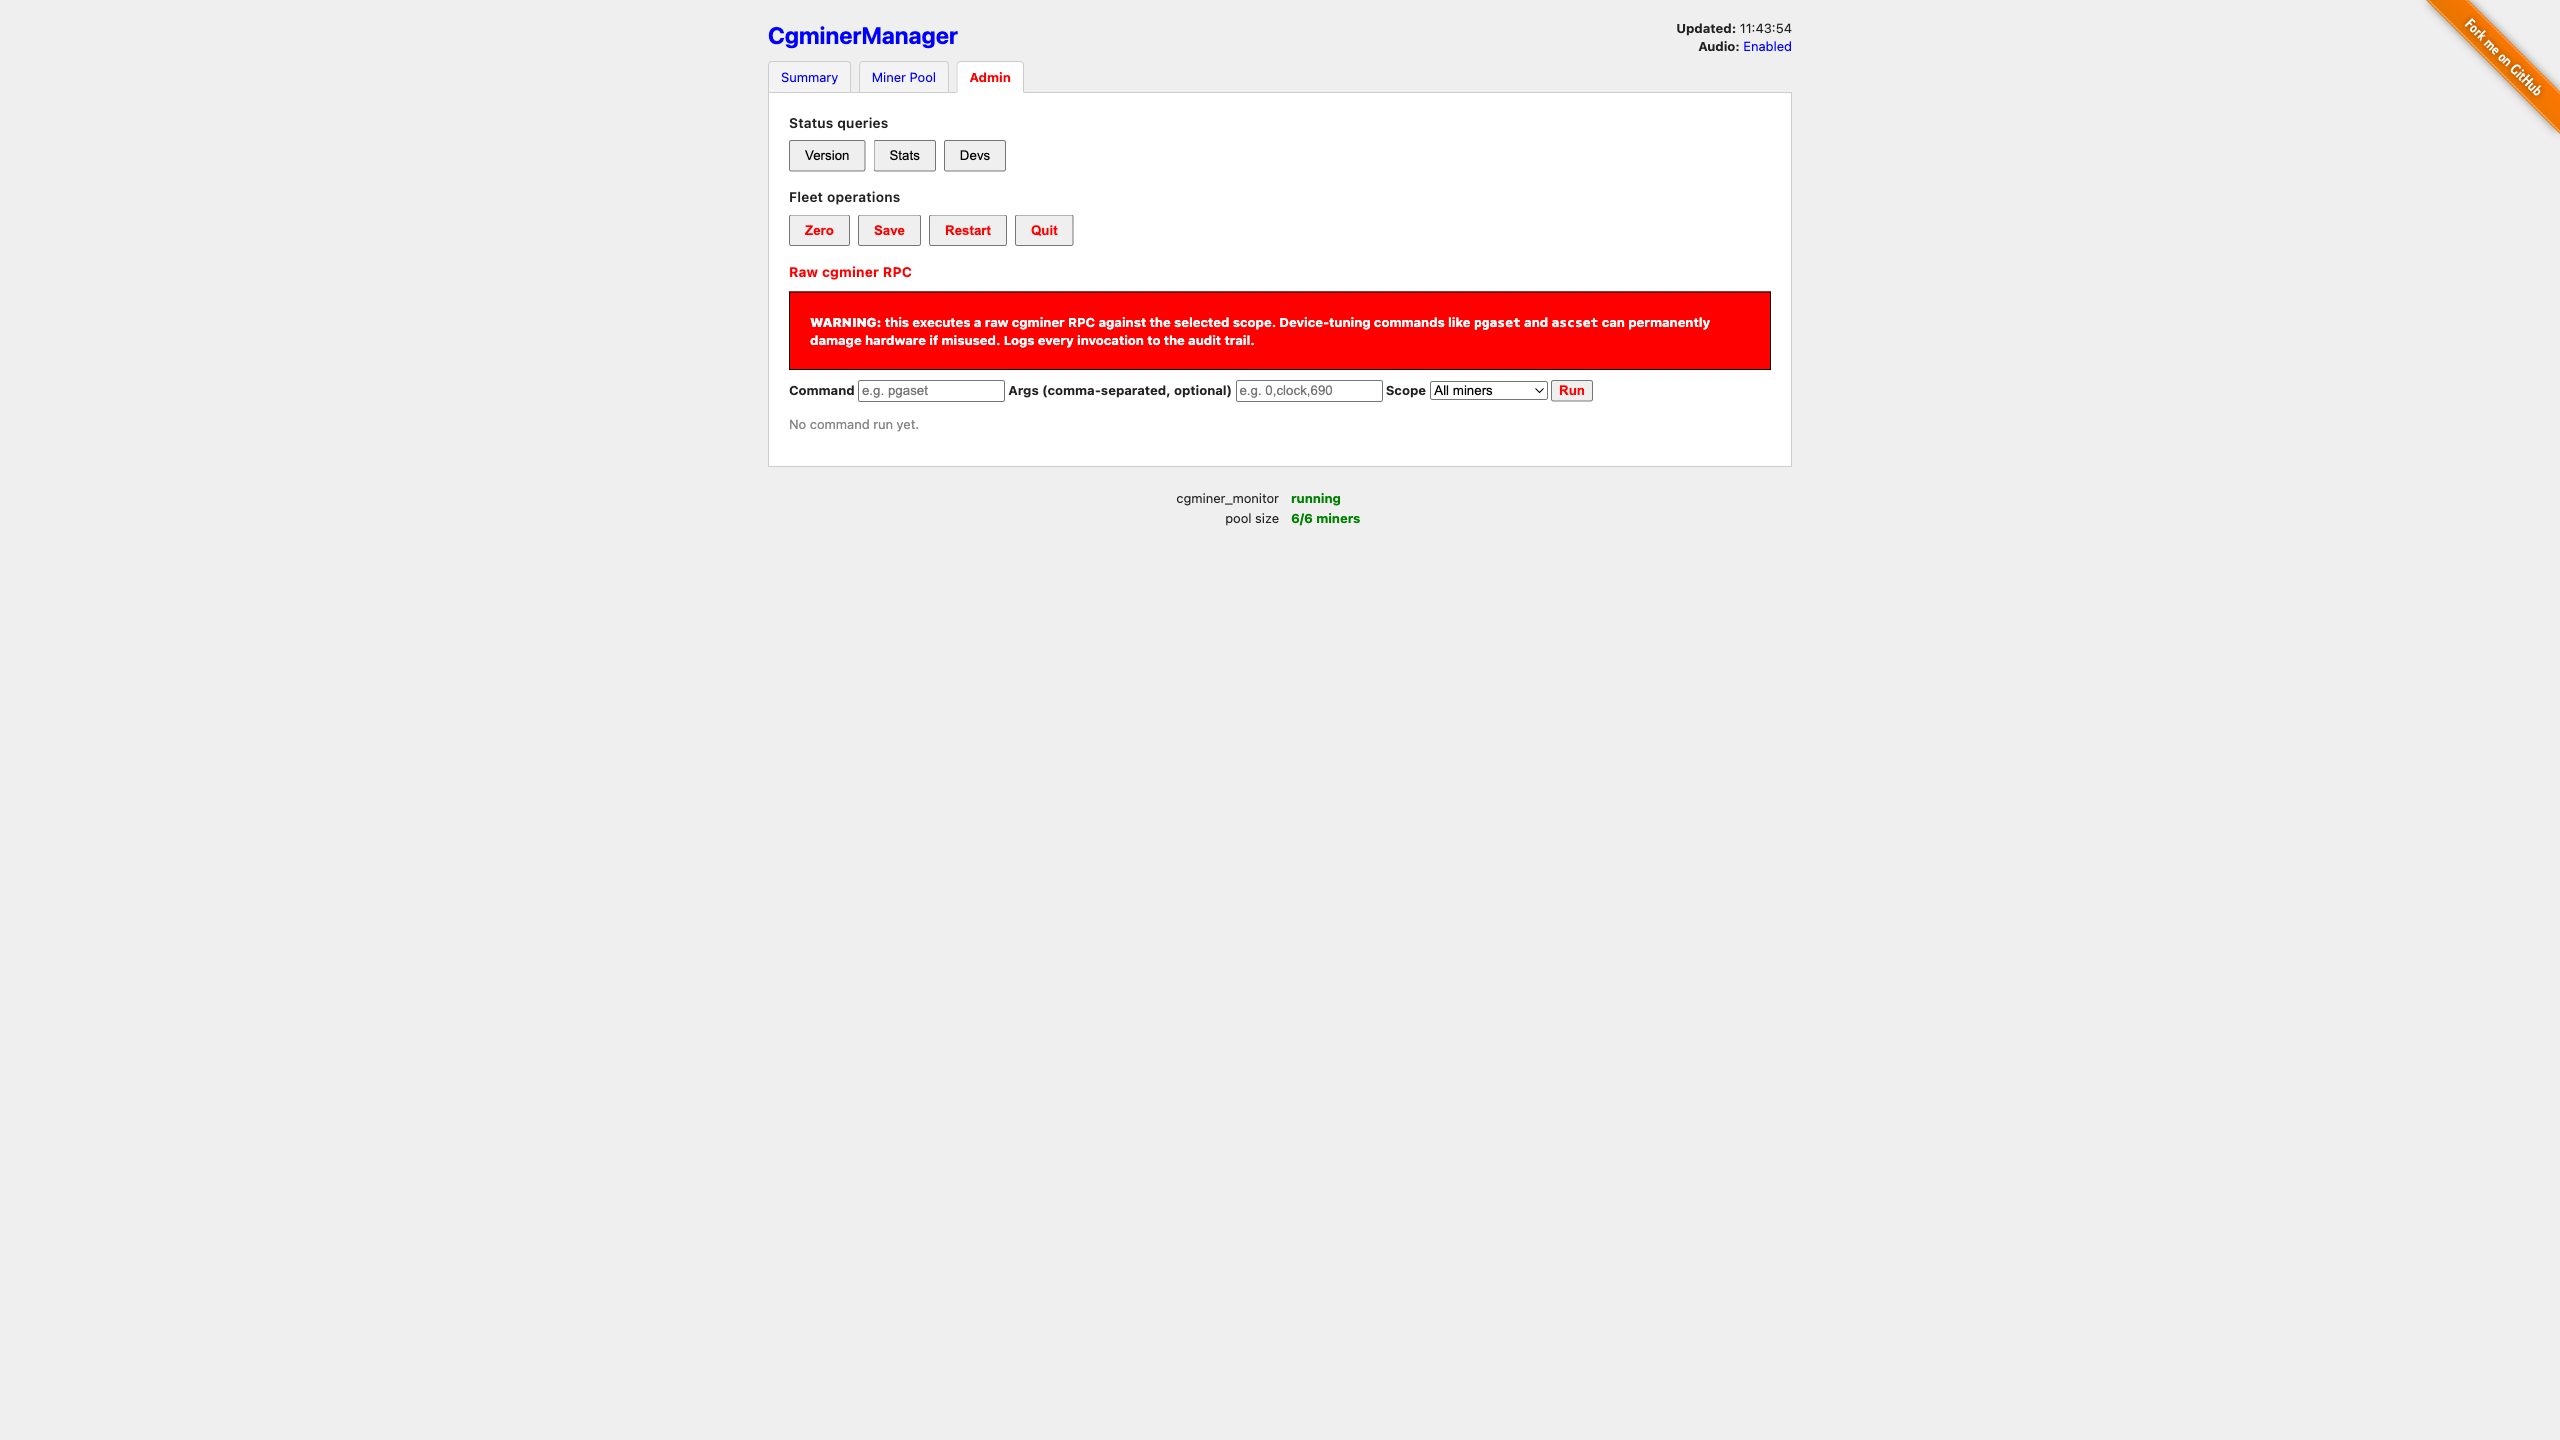
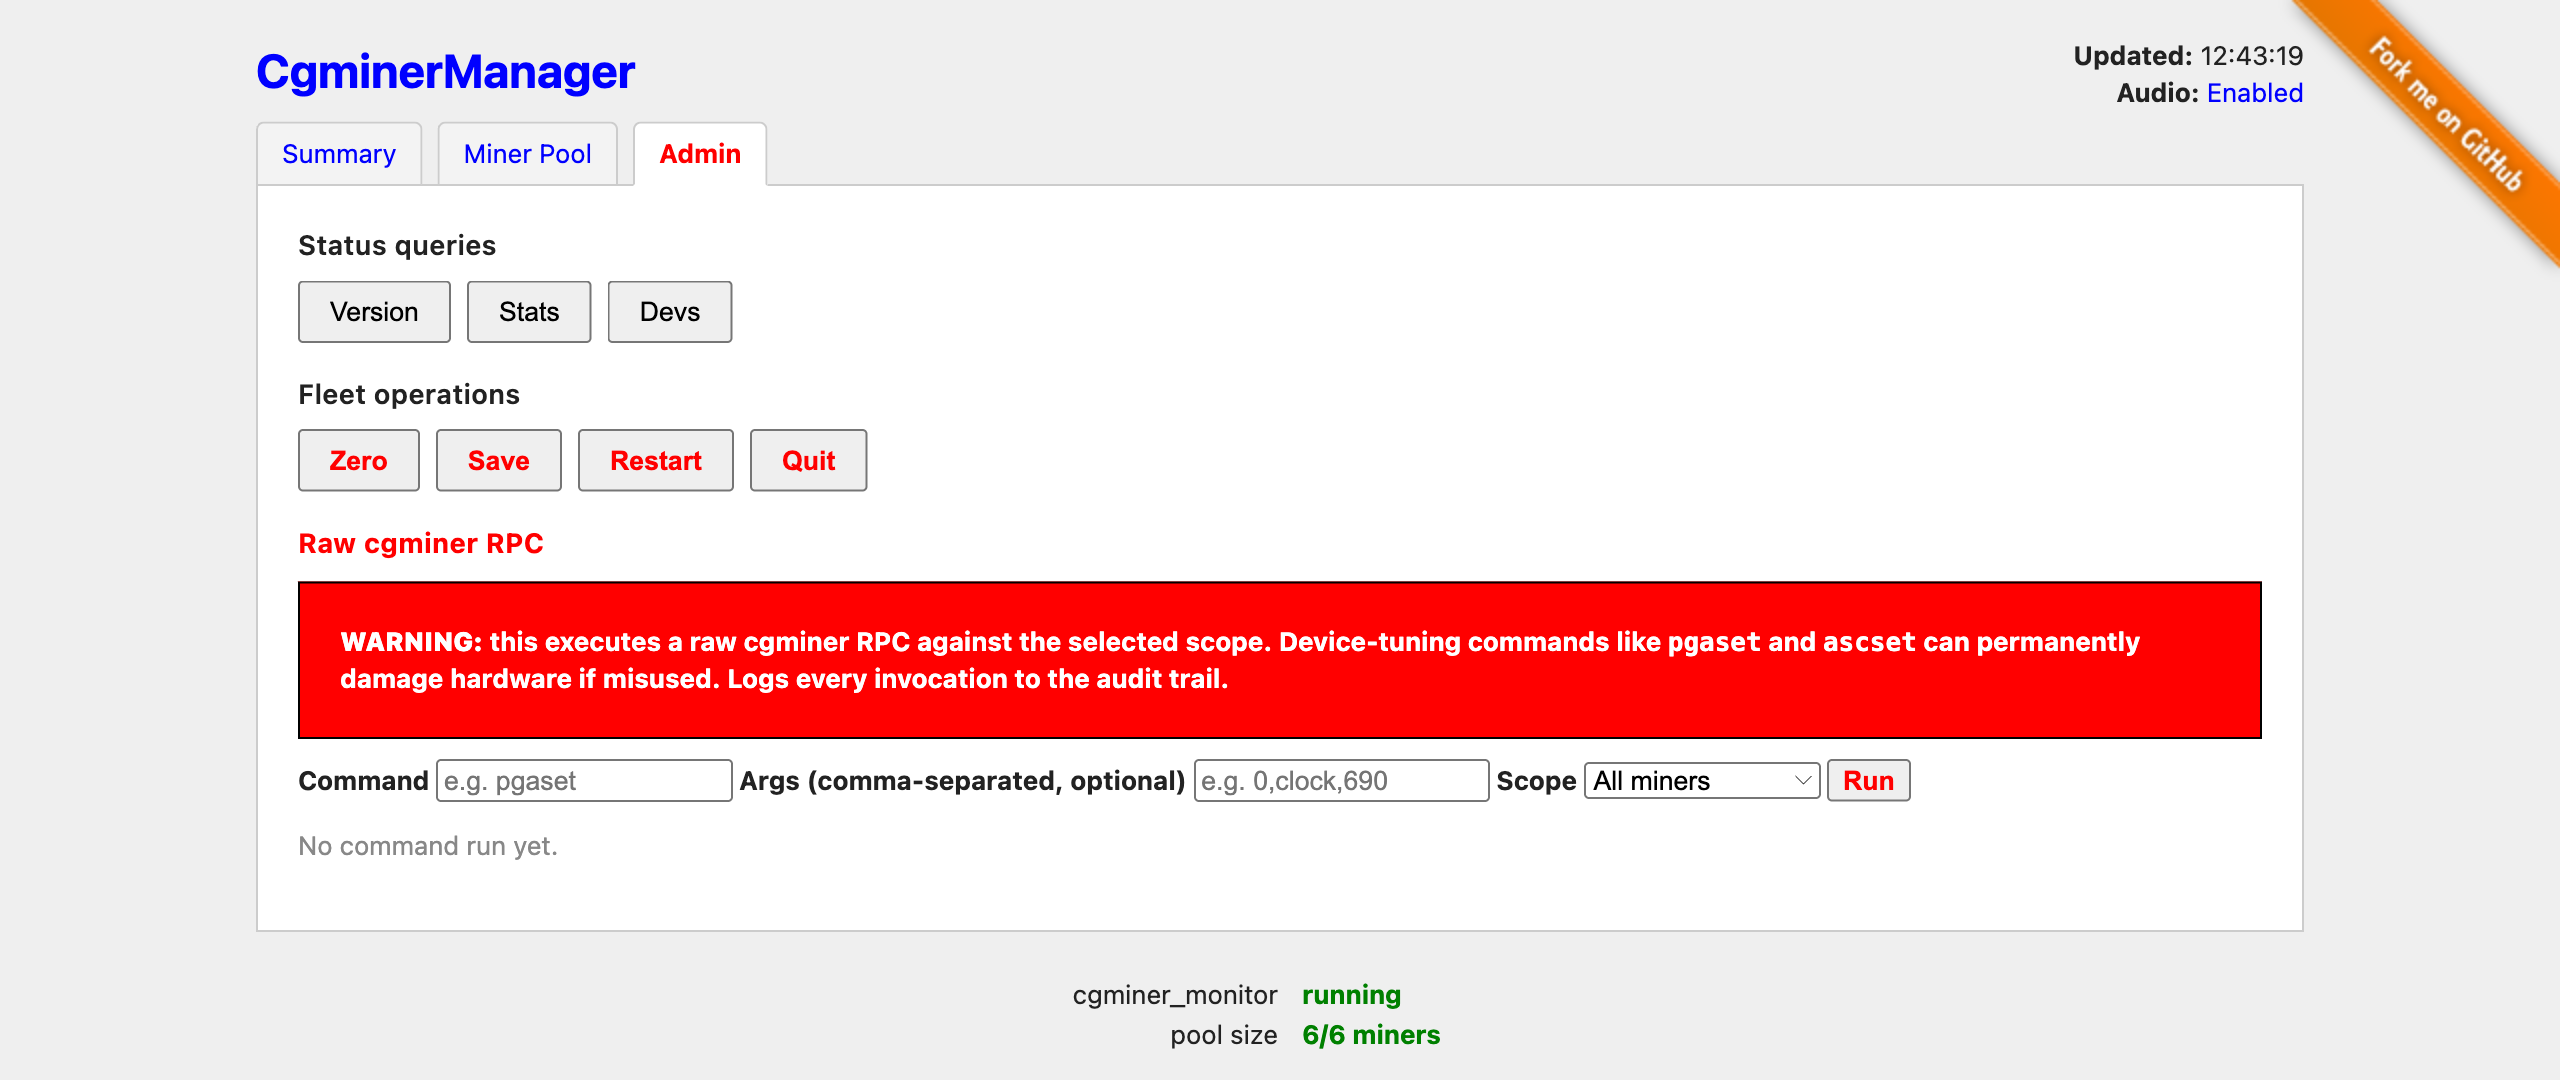
Re-capture screenshots at 2× zoom to keep margin proportions
Use document.documentElement.style.zoom = 2 so the page lays out at its
natural 1280-equivalent width (matching the original ~80%/10%/10%
content/gutter ratio) while the rasterized PNG comes out at 2560 px wide.
The previous max-width: none override gave a 2560-wide PNG but with the
content stretched edge-to-edge, no gutters at all.

diff --git a/dev/screenshots/README.md b/dev/screenshots/README.md
@@ -33,11 +33,20 @@ Capture the four PNGs (from any browser or Playwright MCP session):
 
 For each, wait until `window.__chartsReady === true` (the flag the graph
 partials set after every canvas has rendered), then take a full-page
-screenshot at **2560 px width**. Do NOT set a fixed height — the
-screenshot tool's `fullPage: true` lets the browser determine the
-height from the rendered content. Older shots used 1280 × 2400 with a
-hard height cap; the cap clipped tall pages and the half-resolution
-came out blurry on retina displays.
+screenshot. The capture recipe:
+
+1. **Viewport 2560 × 1080**, height left to the browser
+   (`fullPage: true` honors the rendered content height).
+2. **Apply `document.documentElement.style.zoom = 2`** before shooting.
+   The production layout caps `#content` at 1024 px (see
+   `public/css/base.css`) and Chart.js canvases hardcode their `width`
+   attribute (`responsive: false`). The zoom multiplier doubles every
+   CSS pixel, so the page lays out as if the viewport were 1280 — same
+   ~80%/10%/10% content/gutter ratio the operator sees in a normal
+   browser — but the rasterized PNG comes out at 2560 px wide, twice
+   the resolution. This is the closest available substitute for
+   `deviceScaleFactor: 2`, which Playwright MCP's `browser_take_screenshot`
+   does not expose (it hard-codes `scale: 'css'`).
 
 When finished:
 
